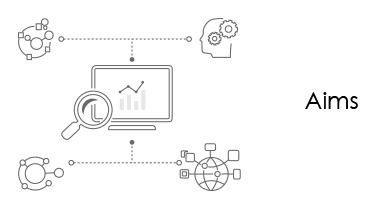
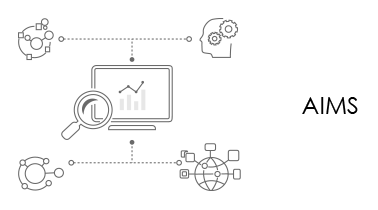
Update the slider design

Changed region(s): [[0.7857, 0.4286, 0.9603, 0.5429]]

diff --git a/atomicka/css/index.css b/atomicka/css/index.css
@@ -8399,7 +8399,7 @@ a:hover,
   box-shadow: 0px 2px 2px 0px rgba(0, 0, 0, 0.3);
 }
 .popup-content {
-  padding: 20px 40px 30px 40px;
+  padding: 20px 40px 17px;
 }
 .popup-overlay {
   background-color: rgba(0, 0, 0, 0.3);
@@ -8970,7 +8970,7 @@ input[readonly] {
   }
 }
 .mcusheight {
-  height: 321px;
+  height: 300px;
   padding: 10px;
   overflow-y: auto;
 }
@@ -10115,9 +10115,9 @@ input[type="checkbox"] {
 	-webkit-transition: 0.5s;
 	-o-transition: 0.5s;
 }
-#erp img{
+#erp img,#retail img,#ekads img, #hrms img, #rpos img, #ecom img,#erpm img{
     display: block;
-    height: 200px;
+    height: 190px;
     margin: 0 auto;
     width: 400px;
 }
@@ -10767,7 +10767,7 @@ input[type="checkbox"] {
 }
 .view_frame {
     font-size: 15px;
-    color: #333333;
+    color: #c31118;
 }
 .view_frame:hover{
   text-decoration: none;
@@ -10827,3 +10827,51 @@ input[type="checkbox"] {
   visibility: hidden;
 }
 
+.clr_red{
+  color: #c31118;
+  background: transparent;
+}
+.vision_content {
+    font-size: 30px;
+    position: relative;
+    left: 20px;
+}
+.mission_content li {
+    font-family: century gothic;
+    font-size: 15px;
+    line-height: 2;
+    text-align: justify;
+}
+.mission_content > ul {
+    float: right;
+    list-style: outside none none;
+    margin: 0;
+}
+.mission_content {
+    padding: 0 10px 0 50px;
+}
+.mission_txt {
+    font-family: century gothic;
+    margin: 0px 0px 0px 35px;
+    font-size: 15px;
+}
+.framework_img > img,.approach_img img {
+    height: 400px;
+    width: 600px;
+}
+.images_view {
+    margin-top: 200px;
+}
+#framework > img,#approach_img > img {
+   width: 100%;
+}
+.fr_img1 > img,.ap_img2 > img {
+    height: 442px;
+    left: 130px;
+    position: relative;
+    width: 75%;
+}
+a:focus {
+    outline: none !important;
+    outline-offset: 0;
+}

diff --git a/atomicka/css/pagescrol_style.css b/atomicka/css/pagescrol_style.css
@@ -176,7 +176,7 @@ Main Components
   position: fixed;
   z-index: 1;
   top: 50%;
-  right:10px;
+  right:0px;
   bottom: auto;
   list-style-type: none;
   padding: 0px;

diff --git a/atomicka/aboutus.php b/atomicka/aboutus.php
@@ -91,13 +91,10 @@
                             </div>
                             <div class="col-md-9 col-sm-9 padding_right_none col-sm-12">
                                 <div class="bio_2_left_content">
-                                    <p># 2008. Foundation of Atomicka Softtech Pvt Ltd – an Indian IT solution & software development service provider staffed with experienced management and technical specialists. We are focused on long-term commitments providing our clients with cost-effective virtual extensions of their IT organizations. We deliver all stages of a product engineering life cycle from requirements 	definition, project analysis and planning through software development, to QA, trainings and maintenance</p>
-                                    <p># 2016. Infom Atomicka had grown International solution providers with ISO 9001:2008 & 27001:2013 certifications with NASSCOM collaboration coming in as IT Quality backbone for international services. We staff our teams based on technical and analytical capabilities, which is market excellent</p>
-                                    <p># Vision – To bring your concepts to life</p>
-                                    <p># Mission - To mark our footprint in Digital Marketing & Big Data space with more than 1 crore each by 2017
-                                        To make it a obvious service place for our customers 
-                                        To make our employees feel at home
-                                    </p>
+                                    <p><mark class="clr_red"># 2008.</mark> Foundation of Atomicka Softtech Pvt Ltd – an Indian IT solution & software development service provider staffed with experienced management and technical specialists. We are focused on long-term commitments providing our clients with cost-effective virtual extensions of their IT organizations. We deliver all stages of a product engineering life cycle from requirements 	definition, project analysis and planning through software development, to QA, trainings and maintenance</p>
+                                    <p><mark class="clr_red"># 2016.</mark> Infom Atomicka had grown International solution providers with ISO 9001:2008 & 27001:2013 certifications with NASSCOM collaboration coming in as IT Quality backbone for international services. We staff our teams based on technical and analytical capabilities, which is market excellent</p>
+                                    <p><mark class="clr_red"># Vision.</mark></p> 
+                                    <span class="vision_content">To bring your concepts to life</span>
                                 </div>
                             </div><!-- col-md-9 -->
                             <div class="col-md-3 col-sm-3 hidden-xs pn">
@@ -405,7 +402,16 @@
                             </div><!-- col-md-6 -->
                             <div class="col-md-6 col-sm-6 col-xs-12 pn bg_clr">
                                 <div class="bio_3_right_content ">
-                                    <div class="heading_letter">H</div>
+                                    <div class="heading_letter">C</div>
+                                    <span class="mission_txt">Mission</span>
+                                    <div class="mission_content">
+                                        <ul>
+                                            <li>-To mark our footprint in Digital Marketing & Big Data space with more than 1 crore each by 2017</li>
+                                            <li>-To make it a obvious service place for our customers </li>
+                                            <li>-To make our employees feel at home</li>
+                                        </ul>
+                                    </div>
+                               
                                     <p>With seventy plus customers since the inception, we take an opportunity to thank our loyal customers for their enduring collaboration on their digital needs. We constantly strive to keep us updated with the latest innovations and technologies. Our customer centric team has delivered high solutions resulting in repeated national and international customers</p>
                                 </div>
                             </div><!-- col-md-6 -->
@@ -561,17 +567,18 @@
                                 <div class="bio_5_right_content ">
                                     <h3>AIMS</h3>
                                     <p>
-                                        Infom Atomicka offers AIMS (Advanced analytics & Information management solutions) which convert vast data assets into actionable information, helping our customers’ measure, manage, plan and improve business activities and to help organizations achieve strategic business goals. With a strong focus on “Business Value Delivery”, our ' Data-analytics platform help you deploy a Timely, Relevant, Accurate, Consistent, Robust and Scalable - Organization wide Business Intelligence Strategy.We provide the following services under analytics platform
+                                        Infom Atomicka offers AIMS (Analytics & Information management solutions) which convert vast data assets into actionable information, helping our customers’ measure, manage, plan and improve business activities and to help organizations achieve strategic business goals. With a strong focus on “Business Value Delivery”, our ' Data-analytics platform help you deploy a Timely, Relevant, Accurate, Consistent, Robust and Scalable - Organization wide Business Intelligence Strategy.
                                     </p>
 
                                     <ul style="float: left; width: 50%; list-style-type: none; font-style: italic; padding:0 0 0 56px;">
                                         <li>Enterprise Data Management</li>
                                         <li>Big Data Management</li>
+                                        <li>Advanced Analytics</li>
                                     </ul>
                                     <ul style="float: left; width: 50%; list-style-type: none; font-style: italic;padding:0px 0px 0px 22px;">
                                         <li>Business Intelligence</li>
                                         <li>IOT (Internet of Things)</li>
-                                        <li>Advanced Analytics</li>
+                                        
                                     </ul>
                                     <div class="clear_both"></div>
                                 </div>

diff --git a/atomicka/services.php b/atomicka/services.php
@@ -272,7 +272,7 @@
                             <div class="box bg-1 col-md-12 latest_profile">
                                 <a href="concepts2life.php#first" target="_blank"><button class="mn button button--rayen button--border-thin button--text-thick button--text-upper button--size-s" data-text="Latest profile"><span>Latest profile</span></button></a>
                                 <div class="frame_links">
-                                <a href="view_frame_slider.php" class="view_frame" target="_blank">View Framework & Approach</a>
+                                <a href="view_frame_slider.php" class="view_frame hvr-buzz-out" target="_blank">View Framework & Approach</a>
                             </div><!--frame_link-->
                             </div>
                             
@@ -286,7 +286,7 @@
                 <div id="section5" class="section">
                     <div class="col-md-6 pn">
                         <nav class="cl-effect-19">
-                            <a><span data-hover="Aims">Aims</span></a>
+                            <a><span data-hover="AIMS">AIMS</span></a>
                         </nav>
                     </div>
                     <div class="col-md-6 padding_left_none hidden-xs">
@@ -294,7 +294,7 @@
                     </div><!-- col-md-6 -->
                     <div class="col-md-12 products_inner pn">
                         <div class="col-md-12 products_common_info">
-                            <p>Infom Atomicka offers AIMS (Advanced analytics & Information management solutions) which convert vast data assets into actionable information, helping our customers’ measure, manage, plan and improve business activities and to help organizations achieve strategic business goals. With a strong focus on “Business Value Delivery”, our ' Data-analytics platform help you deploy a Timely, Relevant, Accurate, Consistent, Robust and Scalable - Organization wide Business Intelligence Strategy.We provide the following services under analytics platform</p>
+                            <p>Infom Atomicka offers AIMS (Analytics & Information management solutions) which convert vast data assets into actionable information, helping our customers’ measure, manage, plan and improve business activities and to help organizations achieve strategic business goals. With a strong focus on “Business Value Delivery”, our ' Data-analytics platform help you deploy a Timely, Relevant, Accurate, Consistent, Robust and Scalable - Organization wide Business Intelligence Strategy.We provide the following services under analytics platform</p>
                             <div class="products_common_info_img">
                                 <div class="col-md-3">
                                     <code class="enterprise_img"></code>
@@ -382,7 +382,7 @@
                 anchors: ['firstPage', 'secondPage', '3rdPage', '4thpage', '5thPage', 'lastPage'],
                 navigation: true,
                 navigationPosition: 'right',
-                navigationTooltips: ['Services', 'Web', 'Mobile', 'Creative UX Designing', 'Digital Marketing', 'Advanced Analytics'],
+                navigationTooltips: ['Services', 'Web', 'Mobile', 'Creative UX Designing', 'Digital Marketing', 'AIMS'],
                 scrollingSpeed: 1000
             });
 

diff --git a/atomicka/view_frame_slider.php b/atomicka/view_frame_slider.php
@@ -50,7 +50,7 @@
         <script src="js/jquery.fullPage.js" type="text/javascript"></script>
         <script src="js/action.js" type="text/javascript"></script>
 
-        <script src="js/seeSlide.js" type="text/javascript"></script>
+        
         <style>
             a {
                 color:#0078ff;
@@ -59,7 +59,7 @@
                 z-index: 1000 ;
             }
             .canvas_class{
-                height: 188px;
+                height: 180px;
                 overflow: hidden;
                 position: absolute;
                 top: 0px;
@@ -68,6 +68,33 @@
         </style>
     </head>
     <body>
+     <div class="images_view"> 
+            <div class="col-md-6 framework_img remove_class">
+                <img src="images/framework.png" id="popup_window" data-dialog="#framework" data-effect="effect-fade-scale" style="cursor: pointer;">
+            </div><!--col-md-6-->   
+            <div class="col-md-6 approach_img remove_class">
+                <img src="images/approch.png" id="popup_window" data-dialog="#approach" data-effect="effect-fade-scale" style="cursor: pointer;">
+            </div><!--col-md-6-->
+    </div><!--images_view-->
+    <div class="note">
+       <p>
+           NOTE : Click image to view large
+       </p>
+   </div><!--note-->
+    
+    <div class="popup effect-fade-scale" id="framework" style="top:40%;">
+        <div class="fr_img1">
+            <img src="images/framework.png">
+            <div class="popup-close btn btn-danger popcls">x</div>
+        </div><!--fr_img1-->
+    </div>
+    <div class="popup effect-fade-scale" id="approach" style="top:40%;">
+        <div class="ap_img2">
+            <img src="images/approch.png">
+            <div class="popup-close btn btn-danger popcls">x</div>
+        </div><!--ap_img2-->
+    </div>
+
     <div id="loader-wrapper">
             <div id="loader"></div>
 
@@ -75,11 +102,7 @@
             <div class="loader-section section-right"></div>
             <div class="bro_comp">The website is best viewed in browser verions of IE 9 and above, Firefox 3.x , Chrome 4.x</div>
 	</div>
-        <div id="seeSlide">
-            <img src="images/framework.png">
-            <img src="images/approch.png">
-        </div><!--seeSlide-->
-    <div class="main_wrapper dn container-fluid">
+        <div class="main_wrapper dn container-fluid">
                 <header id="header">
                     <div class="col-md-12 col-xs-12 header_menu">
                         <div class="col-md-9 col-xs-6">
@@ -99,7 +122,7 @@
                      <?php require_once 'nav-menu.php'; ?>
                 </header>
                 <div class="clear_both"></div>
-            </div><!--End of main_wrapper-->
+        </div><!--End of main_wrapper-->
 
         <script src="js/three.min.js"></script>
 		<script src="js/renderers/Projector.js"></script>

diff --git a/atomicka/innovation.php b/atomicka/innovation.php
@@ -41,7 +41,7 @@
         <script src="js/jquery.auto-text-rotating.min.js" type="text/javascript"></script>
         <script src="js/form.js" type="text/javascript"></script>
         <script src="js/action.js" type="text/javascript"></script>
-
+        <script src="js/bootstrap-filestyle.js" type="text/javascript"></script>
         <style>
 			body {
 				/*background-color: #fff;*/
@@ -709,6 +709,42 @@
 			})();
 		</script>
 
+        <script>
+        $(function() {
+            $('#reset').click(function() {
+                $(':input','#myform')
+                   .not(':button, :submit, :reset, :hidden')
+                   .val('')
+                   .removeAttr('checked')
+                   .removeAttr('selected');
+            });
+        });
+        $(":file").filestyle({buttonText: "Find file"});
+        $(document).ready(function () {
+            
+             $(":file").filestyle({buttonText: "Find file"});
+             $(document).on('change', '.btn-file :file', function() {
+                 var input = $(this),
+                 numFiles = input.get(0).files ? input.get(0).files.length : 1,
+                 label = input.val().replace(/\\/g, '/').replace(/.*\//, '');
+                 input.trigger('fileselect', [numFiles, label]);
+             });
+             $('.btn-file :file').on('fileselect', function(event, numFiles, label) {
+
+                var input = $(this).parents('.input-group').find(':text'),
+                    log = numFiles > 1 ? numFiles + ' files selected' : label;
+
+                if( input.length ) {
+                    input.val(log);
+                } else {
+                    if( log ) alert(log);
+                }
+
+            });
+
+        });
+
+    </script>
 
     </body>
 

diff --git a/atomicka/joinus.php b/atomicka/joinus.php
@@ -43,7 +43,7 @@
                                    </span>
                                    <p class="join_note">* Only pdf, doc, docx</p>
                                </span>
-                               <input type="text" class="form-control input_upload" id="atm_j_dumy" readonly style="width: 82%;">
+                               <input type="text" class="form-control input_upload" id="atm_j_dumy" readonly style="width: 82%; font-family: century gothic;">
                                <span style="position: absolute; right: 56px; top: 71%;" id="msg_j_file" class="msg_validate"></span>
                            </div>
                             

diff --git a/atomicka/products.php b/atomicka/products.php
@@ -65,9 +65,9 @@
             .popup{
                 top: 42% !important;
             }
-            #erp, #retail, #ekads, #hrms, #rpos, #ecom {
+            #erp, #retail, #ekads, #hrms, #rpos, #ecom,#erpm {
                 top: 0% !important;
-                margin-top: 200px !important;
+                margin-top: 250px !important;
             }
             .popup-show {
                 z-index: 999999 !important;
